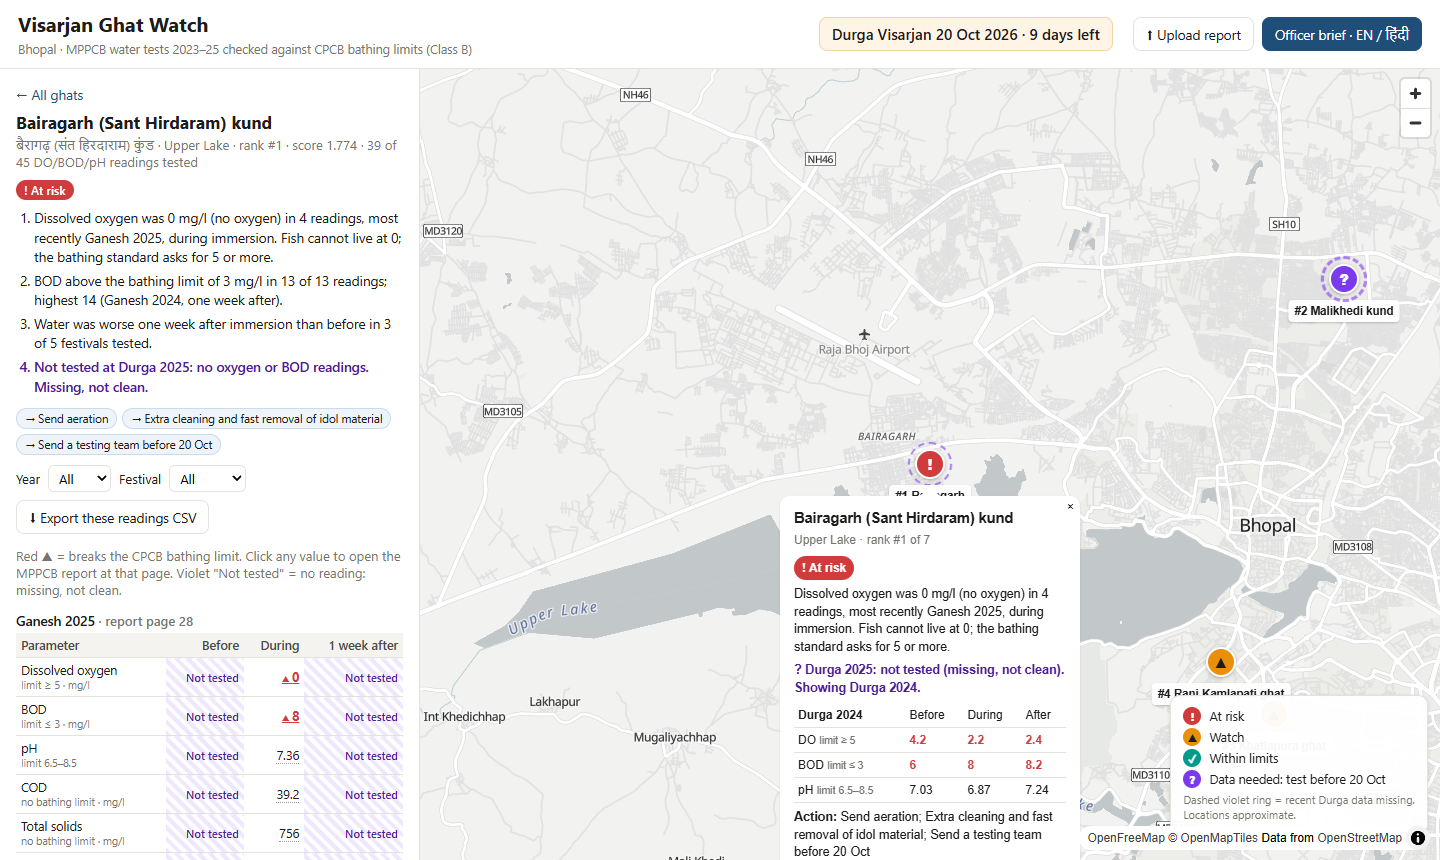
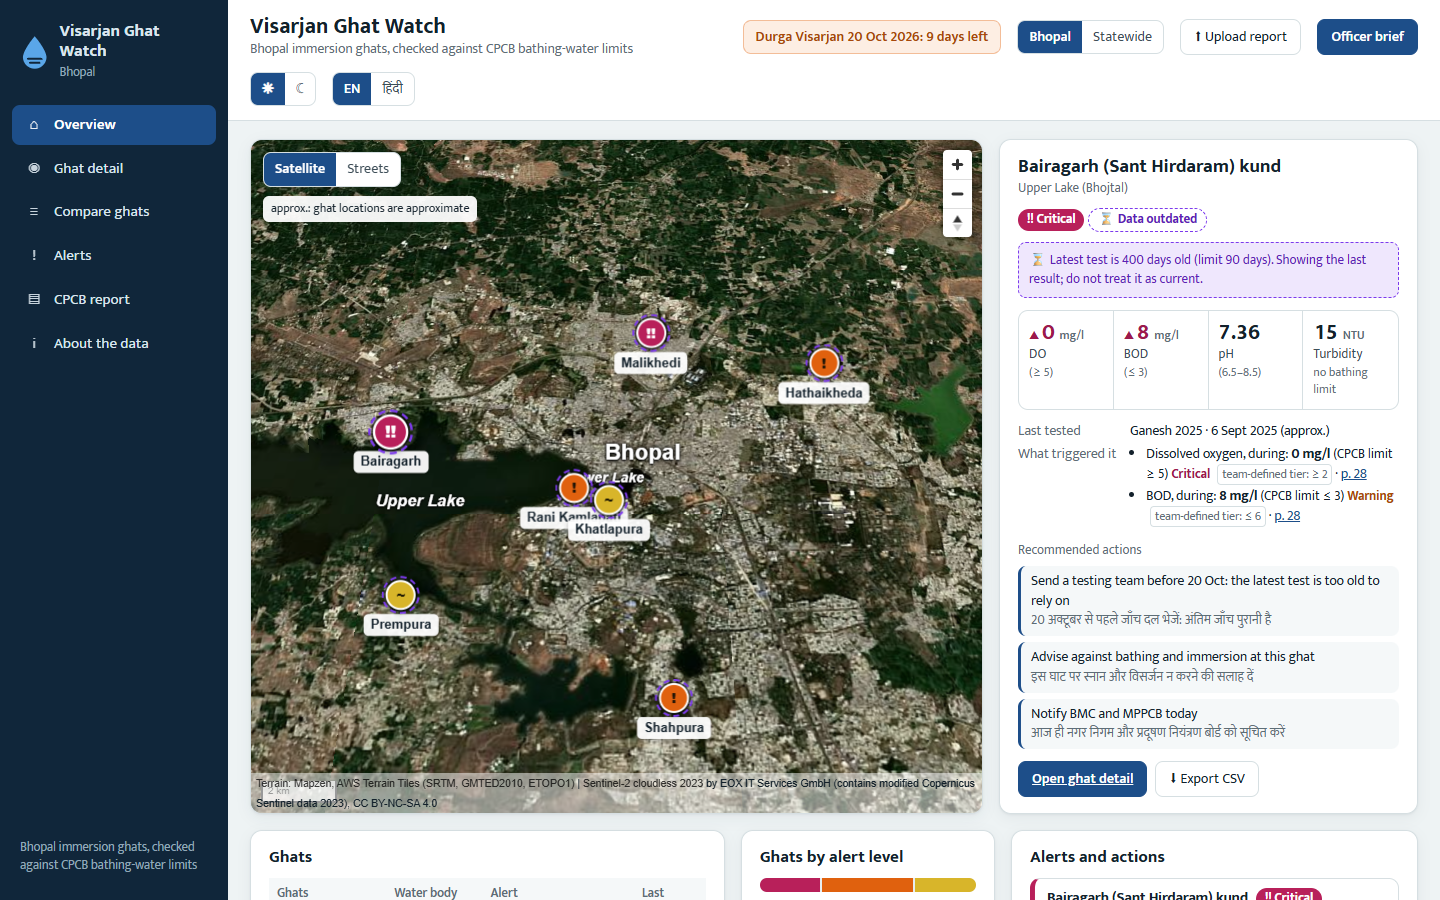
Docs: alert engine, design decisions, tile licensing, v1.1 notes, new screenshot

diff --git a/README.md b/README.md
@@ -4,10 +4,20 @@ Track: 2 Visarjan Ghat Watch
 Team: [TEAM NAME] · [member 1], [member 2], [member 3], [member 4], [member 5]
 
 ## The user
-The Bhopal Municipal Corporation officer who plans Durga visarjan at the ghats, using it in the days before 20 October 2026 to decide where to send aeration, cleaning and water-testing teams.
+The Bhopal Municipal Corporation officer who plans Durga visarjan at the ghats. They use it in the days before 20 October 2026 to decide where to send aeration, cleaning and water-testing teams.
 
 ## What it does
-It turns three years of MPPCB immersion water tests (1,524 readings, 7 Bhopal ghats, 2023–25) into a colour-coded map and a ranked list of ghats. Each rank comes with a plain-words reason and a recommended action. Every number is checked against CPCB bathing limits and links to the exact page of the MPPCB report it came from. Missing tests show as violet "Not tested / data needed", never as clean. The officer gets a one-page brief in English and Hindi to copy into WhatsApp or print. Next year, BMC uploads the new MPPCB report PDF in the browser and the map updates, with no developer needed.
+It turns three years of MPPCB immersion water tests (1,524 readings, 7 Bhopal ghats, 2023–25) into a **rules-based alert** for every ghat: Critical, Warning, Advisory or Meets bathing limits. Each alert lists which readings set it off, by how much, against which CPCB limit, and on which report page, along with recommended actions in English and Hindi. A ghat whose latest test is older than 90 days also shows **"Data outdated"**, never "safe".
+
+The dashboard has:
+- a satellite and 3D terrain map
+- a per-ghat view with trend charts that draw the limit line
+- a cross-ghat comparison
+- the CPCB report
+- CSV exports
+- an officer brief to copy into WhatsApp or print
+
+Every screen works in Hindi or English and in light or dark mode. Next year, BMC uploads the new MPPCB report PDF in the browser and everything updates; no developer is needed.
 
 ![screenshot](docs/screenshot.png)
 
@@ -18,60 +28,113 @@ It turns three years of MPPCB immersion water tests (1,524 readings, 7 Bhopal gh
 1. Install Python 3 (any recent version). Nothing else is needed to *use* the tool.
 2. `git clone <this repo>` and `cd visarjan-ghat-watch`
 3. `python -m http.server 8765`
-4. Open http://localhost:8765/site/ in Chrome or Edge.
+4. Open http://localhost:8765/site/ for the landing page, or http://localhost:8765/site/app.html for the dashboard.
 
-Opening `site/index.html` directly by double-click also works for the map, list, report and brief. **Uploading a PDF needs step 3**, because browsers block the PDF reader on `file://`.
+**Uploading a PDF needs step 3**, because browsers block the PDF reader on `file://`.
 
-To rehearse the yearly update, open http://localhost:8765/site/?until=2024, which hides 2025. Click **Upload report** and drop `resources/Ganesh_and_Durga_visarjan_report-2025.pdf`.
+To rehearse the yearly update, open http://localhost:8765/site/app.html?until=2024, which hides 2025. Click **Upload report** and drop `resources/Ganesh_and_Durga_visarjan_report-2025.pdf`.
 
-**For developers:** `npm install` then `npm test` (parser and scoring tests) and `npm run e2e` (browser test, with the server from step 3 running). After editing `data/*.csv` or `data/ghats.geojson`, run `python pipeline/build_data.py`.
+**Optional sharper satellite imagery:** copy `.env.example` to `.env`, set `MAPTILER_KEY`, and run `python pipeline/build_data.py`. This writes the gitignored `site/data/env.js`. A key used in a browser is visible to visitors, so restrict it to your domain in MapTiler.
 
-## What's in the screen
-- **Map (MapLibre):** 7 ghats. Red **!** = at risk, amber **▲** = watch, teal **✓** = within limits, violet **?** pulsing = data needed (test before 20 Oct). A violet dashed ring on any marker means the most recent Durga was not tested.
-- **Popup:** status, reason, latest Durga DO/BOD/pH against the limits, action, and a link to all 13 parameters.
-- **Sidebar:** ranked list; ghat detail with all 13 parameters by year, festival and phase (filterable); every value links to its PDF page; **Export CSV** (this ghat, the ranking, all readings, or the CPCB report).
-- **CPCB report:** pH, DO and BOD breaches against Class B, overall and per ghat, including "not tested" counts.
-- **Officer brief:** EN / हिंदी / both; **Copy for WhatsApp**; **Print / Save as PDF**.
-- **Upload report:** drop an MPPCB PDF (or a CSV). The browser reads every table, matches the 7 ghats and shows a review screen: what was found, what is missing, and any unrecognised Bhopal site names for you to map or skip. Then you confirm. The upload is stored in this browser; "reset to bundled data" undoes it.
-- **What this data does not tell you:** always visible in the sidebar.
+**For developers:**
+- `npm install`, then `npm test` (alert engine, scoring and PDF-parser tests) and `npm run e2e` (upload flow in Chrome; needs the step 3 server running).
+- `node tests/screens.js` takes screenshots of every view in both themes, both languages, and desktop and mobile widths.
+- After editing anything in `data/`, run `python pipeline/build_data.py`.
+- There is no build step and no framework: plain HTML, CSS and JavaScript.
 
-## How the ranking works
-CPCB Class B (outdoor bathing) limits: DO ≥ 5 mg/l, BOD ≤ 3 mg/l, pH 6.5–8.5. Points for each breach, more for severe ones (DO below 4, DO at 0, BOD above 6), plus a point when water was worse a week after immersion than before. Durga and recent years weigh more. The total is divided by the number of readings actually tested, so missing data never makes a ghat look cleaner. Full rules: [docs/methodology.md](docs/methodology.md). Product spec: [docs/PRD.md](docs/PRD.md).
+## What's on screen
+- **Landing page (`site/index.html`):** a slow satellite and terrain flyover across the 7 ghats, with a live list of each ghat's latest alert.
+  - The map library loads only after the page has appeared, and not at all with data saver on or on 2G.
+  - If the system asks for reduced motion, the flyover doesn't run, and there is always a pause button.
+- **Overview:**
+  - **Map:** satellite by default, with a switch to streets and 3D terrain. Pins are coloured by alert level and always carry an icon and a label: **!!** critical, **!** warning, **~** advisory, **✓** meets limits, **?** no data. A dashed violet ring means the data is outdated.
+  - **Ghat panel:** latest DO, BOD, pH and turbidity against their limits, what triggered the alert, and the actions.
+  - Below the map: the site table, the count of ghats at each alert level, and the alert list.
+- **Ghat detail:**
+  - the alert, its triggers with page links, and the actions in both languages
+  - the pattern across all seasons
+  - DO, BOD and pH **trend charts** with the CPCB limit drawn in, untested points marked ✕ and breaches as ◆, each with a table view
+  - all 13 parameters for every season, with links to the report pages and CSV export
+- **Compare ghats:** for one parameter and season, a dot chart of before, during and a week after for every ghat, sorted worst first, with the limit line and "not tested" marked. A table view is also available.
+- **Alerts:** a full alert card for every ghat.
+- **CPCB report:** breaches out of readings actually tested, overall and per ghat.
+- **About the data:** what the data doesn't tell you, the alert rules table, and sources and credits.
+- **Officer brief:** English, हिंदी or both, with **Copy for WhatsApp** and **Print / Save as PDF**.
+- **Upload report:** drop an MPPCB PDF or a CSV.
+  1. The browser reads every table and matches the 7 ghats.
+  2. A review screen shows what was found and what is missing, plus any unrecognised Bhopal site names for you to map or skip.
+  3. You confirm, and everything updates.
+- **Statewide:** a button marks where coverage of about 100 MP sites will go in v2.
 
-**Check:** the tool reproduces the problem statement's figures exactly: 42 of 116 DO readings below 5, and 100 of 112 BOD readings above 3.
+## How the alerts work
+The thresholds are all in `site/js/config.js` (`alerts`). They are based on the CPCB Primary Water Quality Criteria, Class B (organised outdoor bathing):
+
+| Parameter | Advisory | Warning | Critical |
+|---|---|---|---|
+| Dissolved oxygen | below 5 (CPCB B) | below 4 (CPCB C/D) | below 2 *(team-defined)* |
+| BOD | above 3 (CPCB B) | above 6 *(team-defined, 2× limit)* | above 12 *(team-defined, 4× limit)* |
+| pH | outside 6.5–8.5 (CPCB B) | outside 6–9 (CPCB C) | – |
+| Faecal coliform | above 500 (CPCB B) | above 2,500 | – (not in the reports) |
+
+- **Team-defined tiers:** CPCB sets no tiers above its class limits. The tiers marked *team-defined* are our judgement and are labelled that way in the app.
+- **Not used for alerts:** COD, solids, turbidity, conductivity and metals have no bathing limit. They are shown, but never used for alerts.
+- **Which data counts:** the engine uses each ghat's latest tested season. The worst rule broken sets the level.
+- **Missing data:** a missing DO, BOD or pH adds a testing action. BDL counts as tested and low.
+- **Dates:** the reports print no sampling dates, so dates are taken from the festival day and marked *approx.*
+- **Outdated data:** data older than `staleDays` (90) is shown as **Data outdated** next to the last result.
+- **Tests:** `site/js/alerts.test.js` covers every level, the boundary values, missing parameters and stale data.
+
+The **ranking and pattern** (weighted breaches across all seasons) is described in [docs/methodology.md](docs/methodology.md). It reproduces the problem statement's figures exactly: 42 of 116 DO readings below 5, and 100 of 112 BOD readings above 3. The product spec is in [docs/PRD.md](docs/PRD.md).
+
+## Design decisions
+- **Map tiles:**
+  - Satellite: **EOX Sentinel-2 cloudless 2023**. It needs no key; its licence (CC BY-NC-SA 4.0) allows non-commercial public use; resolution is 10 m.
+  - Terrain: **AWS Terrain Tiles** (Terrarium encoding), as `raster-dem-source` with terrain `{"source": "raster-dem-source", "exaggeration": 0.5}`.
+  - Streets: OpenFreeMap.
+  - Every source is credited on the map and in About.
+  - Terrain is re-added after every style change.
+- **Hindi on the map:** MapLibre draws text from pre-made glyphs and does not join Devanagari letters properly. `tests/devanagari.html` shows "प्रदेश" and "क्षिप्रा" breaking. So ghat names and key places (भोपाल, बड़ा तालाब, छोटा तालाब) are **HTML labels**, which the browser renders correctly. Street-map labels switch with `setLayoutProperty` but stay in English in Hindi mode. The trade-off is that only the places we label get Hindi names on the map. `HINDI_GLYPHS` in `basemap.js` turns Hindi street labels back on once MapLibre supports this.
+- **Text:** every ghat name, alert, action and UI label is in `site/js/i18n.js`. The choice of language is remembered.
+- **Fonts:** **Mukta** (SIL OFL), self-hosted. Its Devanagari files load only when Hindi text is on screen.
+- **Themes:** colour variables in `style.css`. The page follows the system setting on first visit, remembers the choice, and sets the theme before the first paint, so there is no flash. Alert colours were checked with a palette validator and for WCAG AA contrast in both themes. Colour is never the only signal: every status also has an icon and a label.
+- **Charts:** hand-written SVG with no chart library. Each chart type answers one question: a line for trends, a dot chart for comparing ghats, counts and a stacked bar for status (no donut), and tables for compliance. Every chart has a table view.
 
 ## What works
-- Ranking, reasons, actions and statuses for all 7 ghats, with every number linked to the MPPCB report page.
-- In-browser PDF parsing of MPPCB reports. On the 2023, 2024 and 2025 reports it reproduces all 1,524 checked rows (tested in `site/js/pdfparse.test.js`).
-- CSV upload with validation (bad rows are listed and rejected; nothing changes).
-- Bilingual brief, copy and print; CSV exports with source pages and limits.
-- Works offline apart from the basemap tiles. If tiles fail, a notice appears and everything else still works.
+- Alerts, actions, trends, comparison, report and brief for all 7 ghats, with every number linked to its MPPCB report page.
+- In-browser PDF parsing: on the 2023, 2024 and 2025 reports it reproduces all 1,524 checked rows (`site/js/pdfparse.test.js`).
+- CSV upload with validation, CSV exports with source pages, limits and approximate sampling dates.
+- Both themes and both languages on every screen, from 390 px phones up to desktop; 24 unit tests and the end-to-end test pass.
 
 ## What doesn't (yet), and what the data can't tell you
-- **Ghat locations are approximate.** They need checking on the ground or on OSM ([docs/verification-log.md](docs/verification-log.md)).
-- **No coliform data** in the reports, though Class B sets a coliform limit. Only 4 metals were tested, and CPCB sets no bathing limit for metals.
-- The reports print **no units**; standard units are assumed.
-- **Bairagarh and Malikhedi have no Durga 2025 table**, so they're flagged "test before 20 Oct".
-- "Rani Kamlapati ghat / Kamla Park kund" may be **two different places** (Ganesh tables say Kamla Park kund, Durga tables say Lower Lake ghat). The tool flags this rather than resolving it.
-- The ranking reflects **past readings, not a forecast**, and the new BMC ghats have no history. **No health effects are claimed.**
-- Scanned (image-only) PDFs can't be parsed; use CSV upload for those. A report with a very different table layout may need parser changes. The review screen will show that nothing matched rather than guess.
-- The Hindi text was written by the team and should be read by a native-speaking officer before official use.
-- Not built: the optional Claude polishing of the brief (the template brief is used) and the Python command-line ingest (the browser parser replaced it).
+- **Every ghat currently shows "Data outdated":** nothing has been tested in the last 90 days. The newest data is Durga 2025, about October 2025.
+- **Ghat locations are approximate** ([docs/verification-log.md](docs/verification-log.md)).
+- **No coliform data** in the reports, though Class B sets a coliform limit. Only 4 metals were tested.
+- The reports print **no units and no sampling dates**. Units are assumed, and dates are approximated from the festival.
+- **Bairagarh and Malikhedi have no Durga 2025 table.**
+- "Rani Kamlapati ghat / Kamla Park kund" may be **two places**.
+- These are **past readings, not a forecast**. **No health effects are claimed.**
+- **Images in the PDFs:** a scanned (image-only) PDF can't be parsed, so use CSV upload for those reports.
+- **Satellite detail:** at 10 m, small kunds look blurry. A MapTiler key gives sharper imagery.
+- **Hindi on the street map** stays English (see Design decisions). The Hindi text should be checked by a native-speaking officer.
+- **Statewide coverage** is planned for v2. The statewide data in the pack is less checked and has no coordinates.
 
 ## Data used
 All from the organisers' data pack (https://github.com/Laaaaksh/bhopal-impact-lab-2026, `tracks/02-visarjan-ghat-watch`):
-- `data/bhopal_ghats_2023_2025.csv`: MPPCB immersion readings, 7 Bhopal ghats.
+- `data/bhopal_ghats_2023_2025.csv`: MPPCB immersion readings for the 7 Bhopal ghats.
 - `data/cpcb_water_quality_criteria.csv`: CPCB water-quality criteria (https://cpcb.gov.in/water-quality-criteria/).
-- `resources/`: the original MPPCB reports, so source links open offline:
+- `resources/`: the original MPPCB reports, so source links work offline:
   - 2025: https://www.mppcb.mp.gov.in/proc/mon/Ganesh_and_Durga_visarjan_report-2025.pdf
   - 2024: https://www.mppcb.mp.gov.in/proc/mon/Ganesh_and_Durga_visarjan_report-2024.pdf
   - 2023: https://www.mppcb.mp.gov.in/proc/mon/Idol_immer._Report_23_CPCB.pdf
 
-Extra data added by the team:
+Extra data and services:
 - `data/ghats.geojson`: approximate ghat coordinates placed by the team (to be verified).
-- Basemap: © OpenStreetMap contributors, via OpenFreeMap (https://openfreemap.org); fallback tiles from tile.openstreetmap.org.
+- `site/img/ghats/`: ghat photos and water-test table images cut from the MPPCB reports above.
+- Satellite: Sentinel-2 cloudless 2023 by EOX IT Services GmbH (https://s2maps.eu), contains modified Copernicus Sentinel data, CC BY-NC-SA 4.0.
+- Terrain: AWS Terrain Tiles / Mapzen (https://github.com/tilezen/joerd/blob/master/docs/attribution.md).
+- Streets: © OpenStreetMap contributors, via OpenFreeMap (https://openfreemap.org).
 
-Libraries (vendored in `site/vendor/`): MapLibre GL JS (BSD-3-Clause) and pdf.js (Apache-2.0).
+Libraries and fonts, all included in the repo: MapLibre GL JS (BSD-3-Clause), pdf.js (Apache-2.0), Mukta by Ek Type (SIL OFL 1.1).
 
 ## Licence
-MIT. See [LICENSE](LICENSE). No API keys or secrets are used.
+MIT. See [LICENSE](LICENSE). No API keys or secrets are in the code; the optional MapTiler key goes in `.env`, which is gitignored.

diff --git a/docs/methodology.md b/docs/methodology.md
@@ -60,3 +60,13 @@ The scoring code reproduces the organisers' figures exactly: **42 of 116** DO re
 
 ## Parsing new reports
 `site/js/pdfparse.js` is a browser port of the organisers' `tools/parse_visarjan.py`. It uses pdf.js text coordinates instead of pdftotext character columns. On the three published reports it reproduces every one of the 1,524 checked rows (value, flag, phase and page); see `site/js/pdfparse.test.js`. Site names are matched first against every spelling seen in 2023–25, then by keyword (e.g. "khatlapura"). Any other name containing "Bhopal" is shown to the user to map or skip, and is never guessed.
+
+## Alert engine (v1.1)
+Separate from the ranking above, `site/js/alerts.js` gives every ghat an **alert level from its latest tested season**:
+Critical, Warning, Advisory, Meets bathing limits, or No test data. The thresholds are in `site/js/config.js` (`alerts.rules`), each tagged with its source: CPCB class B, CPCB class C/D, or *team-defined* where CPCB sets no tier. The worst rule broken sets the level. Each trigger records the parameter, phase, value, amount over the limit and report page.
+
+**Outdated data:** the reports print no sampling dates, so dates come from the festival day (`alerts.festivalDates`; "pre" is the day before and "after" a week later) and are shown as approximate. A season older than `alerts.staleDays` (90 days) shows **Data outdated** next to the last result and adds "send a testing team" as the first action. It never reads as safe.
+
+**Missing data:** a missing DO, BOD or pH adds a testing action. BDL counts as tested and low. Faecal coliform has CPCB thresholds configured (500 / 2,500 MPN/100 ml) but is not in the reports, so it is never scored.
+
+Tests: `site/js/alerts.test.js` covers every level, the boundaries (exactly at a limit does not trigger it), missing parameters, BDL, stale data and its exact boundary, choosing the latest season, and a real-data check (Bairagarh, Ganesh 2025, DO 0 gives Critical).

diff --git a/docs/PRD.md b/docs/PRD.md
@@ -423,3 +423,18 @@ The brief and the 3-step upload modal are unchanged from v1 (Drop → Review →
 - **False reassurance:** "Normal" without coliform data. Mitigation: label "within tested limits" and an always-visible limitation.
 - **Approximate dates:** the stale logic depends on round dates that the CSV lacks. Mitigation: cited `roundDates` table, "approx." label.
 - **Skills:** the `frontend-design` skill is installed on disk but was not listed as active in this session. Enable it, or confirm its path, before the landing-page design starts.
+
+---
+
+## v1.1 redesign (11 Oct 2026, afternoon)
+Added at the user's request:
+- a landing page with a satellite and terrain flyover
+- satellite as the default basemap, with 3D terrain (`raster-dem-source`, exaggeration 0.5)
+- Hindi and English across the whole UI (`site/js/i18n.js`), with Devanagari place names on the map as HTML labels
+- light and dark themes
+- a rules-based alert engine with bilingual action plans and a 90-day "Data outdated" state
+- per-ghat trend charts with the limit drawn
+- a cross-ghat comparison
+- a placeholder "Statewide" button (v2)
+
+The original risk ranking stays as "pattern over all seasons". See README → How the alerts work and Design decisions.
